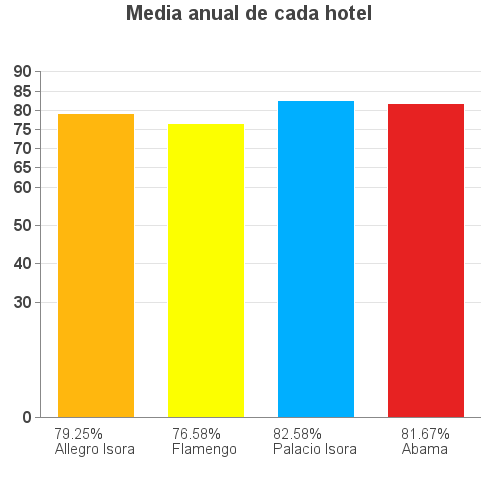
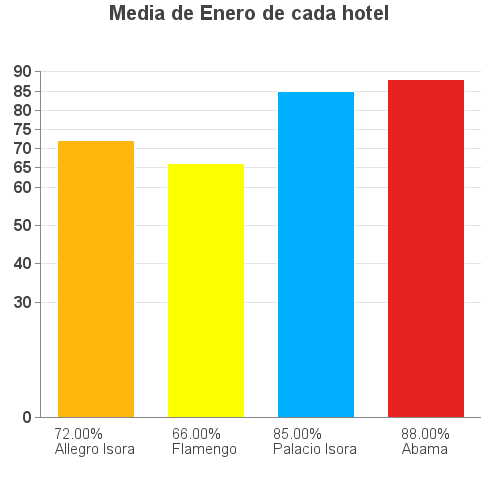
excel hotel todos los meses

diff --git a/pages/ocupacion/ocupacion.php b/pages/ocupacion/ocupacion.php
@@ -488,6 +488,7 @@
                                             WHERE hotel = '".$hotel."' AND ano='".$year."';";
                                 $ocupacion = mysqli_query($link,$consulta);
                                 $numero_filas = mysqli_num_rows($ocupacion);
+                                $media_total_hotel_todos = "";
                                 //echo "Numero de filas = $numero_filas";
                                 //echo"estoy aqui";
 
@@ -511,6 +512,7 @@
                                      </tbody>
                                    </table>
                                     ";
+                                    $media_total_hotel_todos = $fila['ocupacion'];
                                     $grafica=true;
                                   }
 
@@ -593,9 +595,32 @@
                                        <div class='col s12 m12 l2'>
                                          <input id='' value='Generar PDF' type ='submit' onclick=''/>
                                        </div>
-                                       <div class='col s12 m12 l2'>
-                                         <input id='boton_enviar' value='Generar EXCEL' type ='submit' onclick=''/>
-                                       </div>
+                                       <form action='generar_excel_hotel_todos.php' method='POST'>
+
+
+                                         <input type='hidden' value='".$hotel."' name='nombre_hotel'/>
+                                         <input type='hidden' value='".$datos_mes[0]['ocupacion']."' name='por_Enero'/>
+                                         <input type='hidden' value='".$datos_mes[1]['ocupacion']."' name='por_Febrero'/>
+                                         <input type='hidden' value='".$datos_mes[2]['ocupacion']."' name='por_Marzo'/>
+                                         <input type='hidden' value='".$datos_mes[3]['ocupacion']."' name='por_Abril'/>
+                                         <input type='hidden' value='".$datos_mes[4]['ocupacion']."' name='por_Mayo'/>
+                                         <input type='hidden' value='".$datos_mes[5]['ocupacion']."' name='por_Junio'/>
+                                         <input type='hidden' value='".$datos_mes[6]['ocupacion']."' name='por_Julio'/>
+                                         <input type='hidden' value='".$datos_mes[7]['ocupacion']."' name='por_Agosto'/>
+                                         <input type='hidden' value='".$datos_mes[8]['ocupacion']."' name='por_Septiembre'/>
+                                         <input type='hidden' value='".$datos_mes[9]['ocupacion']."' name='por_Octubre'/>
+                                         <input type='hidden' value='".$datos_mes[10]['ocupacion']."' name='por_Noviembre'/>
+                                         <input type='hidden' value='".$datos_mes[11]['ocupacion']."' name='por_Diciembre'/>
+                                         <input type='hidden' value='".$year."' name='year_ocu'/>
+                                         <input type='hidden' value='".$media_total_hotel_todos."' name='media_total'/>
+
+
+
+
+                                         <div class='col s12 m12 l2'>
+                                           <input id='boton_enviar' value='Generar EXCEL' type ='submit'/>
+                                         </div>
+                                       </form>
                                      </div>
                                      ";
                                  }
@@ -737,6 +762,7 @@
                                           WHERE ano ='".$year."';";
                               $ocupacion = mysqli_query($link,$consulta);
                               $numero_filas = mysqli_num_rows($ocupacion);
+                              $total_media = "";
                               if ($numero_filas >0) {
                                 $grafica=true;
                                 while($fila = mysqli_fetch_assoc($ocupacion)){
@@ -745,6 +771,7 @@
                                        <p>Media de <b>".$year."</b> de todos los hoteles es: ".$fila['ocupacion']."%</p>
                                     </div>
                                   ";
+                                  $total_media = $fila['ocupacion'];
                                 }
 
 
@@ -825,7 +852,6 @@
                                   $graph->title->SetFont(FF_ARIAL,FS_BOLD,15);
                                   // Display the graph
                                   $graph->Stroke("../../images/graficas/grafica1.jpg");
-
                                   echo "
                                   <br><br><br>
                                    <div class='row'>
@@ -845,7 +871,7 @@
                                        <input type='hidden' value='".$fila4['ocupacion']."' name='por_Palacio'/>
                                        <input type='hidden' value='".$fila5['ocupacion']."' name='por_Abama'/>
                                        <input type='hidden' value='".$year."' name='year_ocu'/>
-                                       <input type='hidden' value='".$fila['ocupacion']."' name='media_total'/>
+                                       <input type='hidden' value='".$total_media."' name='media_total'/>
 
 
 

diff --git a/pages/ocupacion/generar_excel_hotel_todos.php b/pages/ocupacion/generar_excel_hotel_todos.php
@@ -1,0 +1,77 @@
+<?php
+//ERROR REPORTING
+error_reporting(E_ALL);
+
+//INCLUDE PATH
+//ini_set('include_path', ini_get('include_path').';../../Classes/');
+
+//PHPExcel
+include '../../Classes/PHPExcel.php';
+include '../../Classes/PHPExcel/Writer/Excel2007.php';
+
+
+$excel = new PHPExcel();
+$excel->getProperties()->setCreator("Ayto. Guía de Isora");
+$excel->getProperties()->setTitle("Ocupación");
+
+
+$excel->setActiveSheetIndex(0);
+$excel->getActiveSheet()->SetCellValue('A1', 'Media anual de '.$_POST['nombre_hotel']);
+$excel->getActiveSheet()->SetCellValue('A2', 'Año');
+$excel->getActiveSheet()->SetCellValue('B2', $_POST['year_ocu']);
+$excel->getActiveSheet()->SetCellValue('A4', 'Mes');
+$excel->getActiveSheet()->SetCellValue('B4', 'Media %');
+
+$excel->getActiveSheet()->SetCellValue('A5', 'Enero');
+$excel->getActiveSheet()->SetCellValue('B5', $_POST['por_Enero']);
+
+$excel->getActiveSheet()->SetCellValue('A6', 'Febrero');
+$excel->getActiveSheet()->SetCellValue('B6', $_POST['por_Febrero']);
+
+$excel->getActiveSheet()->SetCellValue('A7', 'Marzo');
+$excel->getActiveSheet()->SetCellValue('B7', $_POST['por_Marzo']);
+
+$excel->getActiveSheet()->SetCellValue('A8', 'Abril');
+$excel->getActiveSheet()->SetCellValue('B8', $_POST['por_Abril']);
+
+$excel->getActiveSheet()->SetCellValue('A9', 'Mayo');
+$excel->getActiveSheet()->SetCellValue('B9', $_POST['por_Mayo']);
+
+$excel->getActiveSheet()->SetCellValue('A10', 'Junio');
+$excel->getActiveSheet()->SetCellValue('B10', $_POST['por_Junio']);
+
+$excel->getActiveSheet()->SetCellValue('A11', 'Julio');
+$excel->getActiveSheet()->SetCellValue('B11', $_POST['por_Julio']);
+
+$excel->getActiveSheet()->SetCellValue('A12', 'Agosto');
+$excel->getActiveSheet()->SetCellValue('B12', $_POST['por_Agosto']);
+
+$excel->getActiveSheet()->SetCellValue('A13', 'Septiembre');
+$excel->getActiveSheet()->SetCellValue('B13', $_POST['por_Septiembre']);
+
+$excel->getActiveSheet()->SetCellValue('A14', 'Octubre');
+$excel->getActiveSheet()->SetCellValue('B14', $_POST['por_Octubre']);
+
+$excel->getActiveSheet()->SetCellValue('A15', 'Noviembre');
+$excel->getActiveSheet()->SetCellValue('B15', $_POST['por_Noviembre']);
+
+$excel->getActiveSheet()->SetCellValue('A16', 'Diciembre');
+$excel->getActiveSheet()->SetCellValue('B16', $_POST['por_Diciembre']);
+
+
+$excel->getActiveSheet()->SetCellValue('A18', 'Media total');
+$excel->getActiveSheet()->SetCellValue('B18', $_POST['media_total']);
+
+
+header('Content-Type: application/vnd.openxmlformats-officedocument.spreadsheetml.sheet');
+header('Content-Disposition: attachment;filename="ocupacion.xlsx"');
+header('Cache-Control: max-age=0');
+
+$objWriter = PHPExcel_IOFactory::createWriter($excel, 'Excel2007');
+$objWriter->save('php://output');
+exit;
+
+//$excelwrite = new PHPExcel_Writer_Excel2007($excel);
+//$excelwrite->save(str_replace('.php', '.xlsx', __FILE__))
+
+ ?>

diff --git a/pages/ocupacion/generar_excel.php b/pages/ocupacion/generar_excel.php
@@ -17,29 +17,26 @@ $excel->getProperties()->setTitle("Ocupación");
 
 $excel->setActiveSheetIndex(0);
 $excel->getActiveSheet()->SetCellValue('A1', 'Media anual de cada hotel');
-$excel->getActiveSheet()->SetCellValue('B1', 'Año');
+$excel->getActiveSheet()->SetCellValue('A2', 'Año');
 $excel->getActiveSheet()->SetCellValue('B2', $_POST['year_ocu']);
-$excel->getActiveSheet()->SetCellValue('D1', 'Hoteles');
-$excel->getActiveSheet()->SetCellValue('D2', 'Media %');
+$excel->getActiveSheet()->SetCellValue('A4', 'Hoteles');
+$excel->getActiveSheet()->SetCellValue('B4', 'Media %');
 
-$excel->getActiveSheet()->SetCellValue('E1', 'Allegro Isora');
-$excel->getActiveSheet()->SetCellValue('E2', $_POST['por_Allegro']);
+$excel->getActiveSheet()->SetCellValue('A5', 'Allegro Isora');
+$excel->getActiveSheet()->SetCellValue('B5', $_POST['por_Allegro']);
 
-$excel->getActiveSheet()->SetCellValue('F1', 'Bahía Flamengo');
-$excel->getActiveSheet()->SetCellValue('F2', $_POST['por_Flamengo']);
+$excel->getActiveSheet()->SetCellValue('A6', 'Bahía Flamengo');
+$excel->getActiveSheet()->SetCellValue('B6', $_POST['por_Flamengo']);
 
-$excel->getActiveSheet()->SetCellValue('G1', 'Ritz Carlton Abama');
-$excel->getActiveSheet()->SetCellValue('G2', $_POST['por_Abama']);
+$excel->getActiveSheet()->SetCellValue('A7', 'Ritz Carlton Abama');
+$excel->getActiveSheet()->SetCellValue('B7', $_POST['por_Abama']);
 
-$excel->getActiveSheet()->SetCellValue('H1', 'Palacio Isora');
-$excel->getActiveSheet()->SetCellValue('H2', $_POST['por_Palacio']);
+$excel->getActiveSheet()->SetCellValue('A8', 'Palacio Isora');
+$excel->getActiveSheet()->SetCellValue('B8', $_POST['por_Palacio']);
 
-$excel->getActiveSheet()->SetCellValue('J1', 'Media total');
-$excel->getActiveSheet()->SetCellValue('J2', $_POST['media_total']);
+$excel->getActiveSheet()->SetCellValue('A10', 'Media total');
+$excel->getActiveSheet()->SetCellValue('B10', $_POST['media_total']);
 
-
-
-$excel->getActiveSheet()->setTitle('Simple');
 
 header('Content-Type: application/vnd.openxmlformats-officedocument.spreadsheetml.sheet');
 header('Content-Disposition: attachment;filename="ocupacion.xlsx"');
